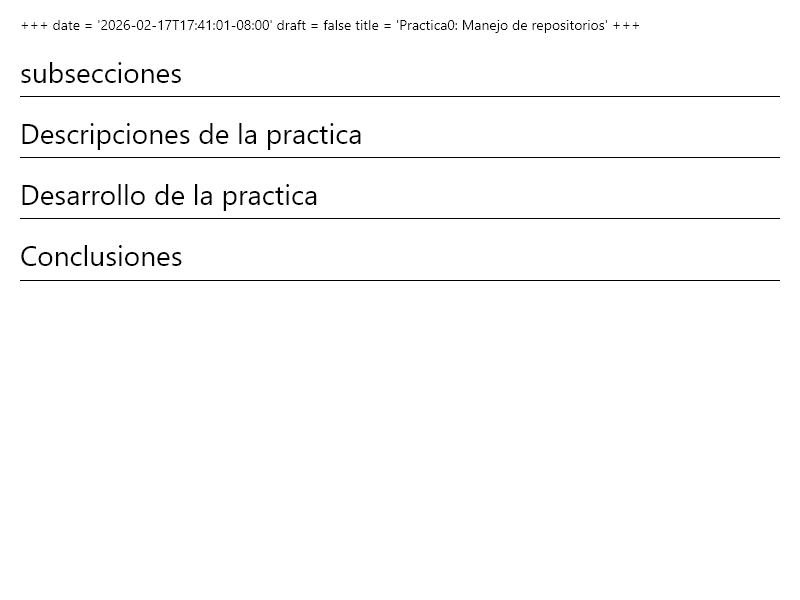
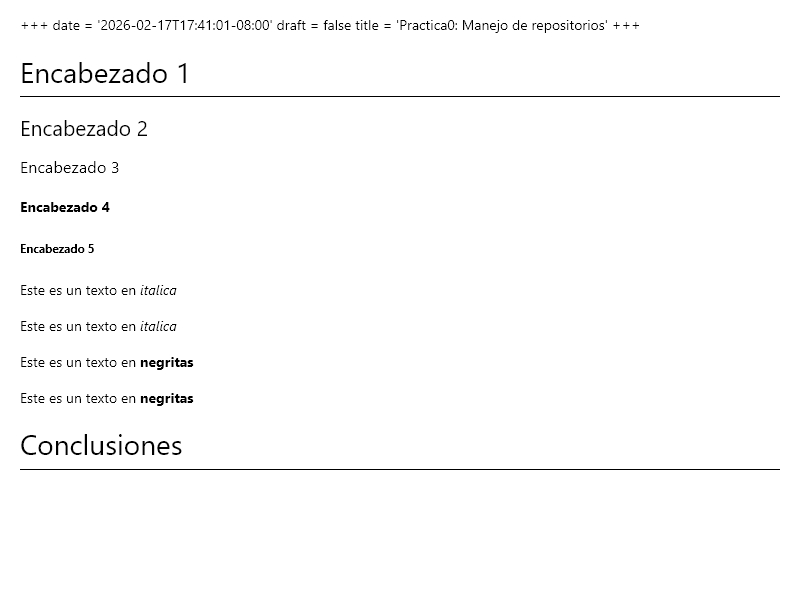
Reporte final

diff --git a/docs/content/practica0/index.html b/docs/content/practica0/index.html
@@ -370,9 +370,18 @@ date = '2026-02-17T17:41:01-08:00'
 draft = false
 title = 'Practica0: Manejo de repositorios'
 +++</p>
-<h1 id="subsecciones">subsecciones</h1>
-<h1 id="descripciones-de-la-practica">Descripciones de la practica</h1>
-<h1 id="desarrollo-de-la-practica">Desarrollo de la practica</h1>
+<!--Esto es un comentario --->
+<h1 id="encabezado-1">Encabezado 1</h1>
+<h2 id="encabezado-2">Encabezado 2</h2>
+<h3 id="encabezado-3">Encabezado 3</h3>
+<h4 id="encabezado-4">Encabezado 4</h4>
+<h5 id="encabezado-5">Encabezado 5</h5>
+<!-- Italicas -->
+<p>Este es un texto en <em>italica</em></p>
+<p>Este es un texto en <em>italica</em></p>
+<!-- Negritas -->
+<p>Este es un texto en <strong>negritas</strong></p>
+<p>Este es un texto en <strong>negritas</strong></p>
 <h1 id="conclusiones">Conclusiones</h1>
 
 </body>

diff --git a/docs/content/practica0/index.md b/docs/content/practica0/index.md
@@ -4,10 +4,29 @@ draft = false
 title = 'Practica0: Manejo de repositorios'
 +++
 
-# subsecciones
+<!--Esto es un comentario --->
+# Encabezado 1
 
-# Descripciones de la practica 
+## Encabezado 2
 
-# Desarrollo de la practica 
+### Encabezado 3
+
+#### Encabezado 4
+
+##### Encabezado 5
+
+<!-- Italicas -->
+Este es un texto en *italica*
+
+Este es un texto en _italica_
+
+<!-- Negritas -->
+Este es un texto en **negritas**
+
+Este es un texto en __negritas__
+
+## Enlaces del Proyecto
+* **Repositorio:** [https://github.com/veroni384/portafolio_Paradigma]
+* **Página Web:** [ https://veroni384.github.io/portafolio_Paradigma/]
 
 # Conclusiones
